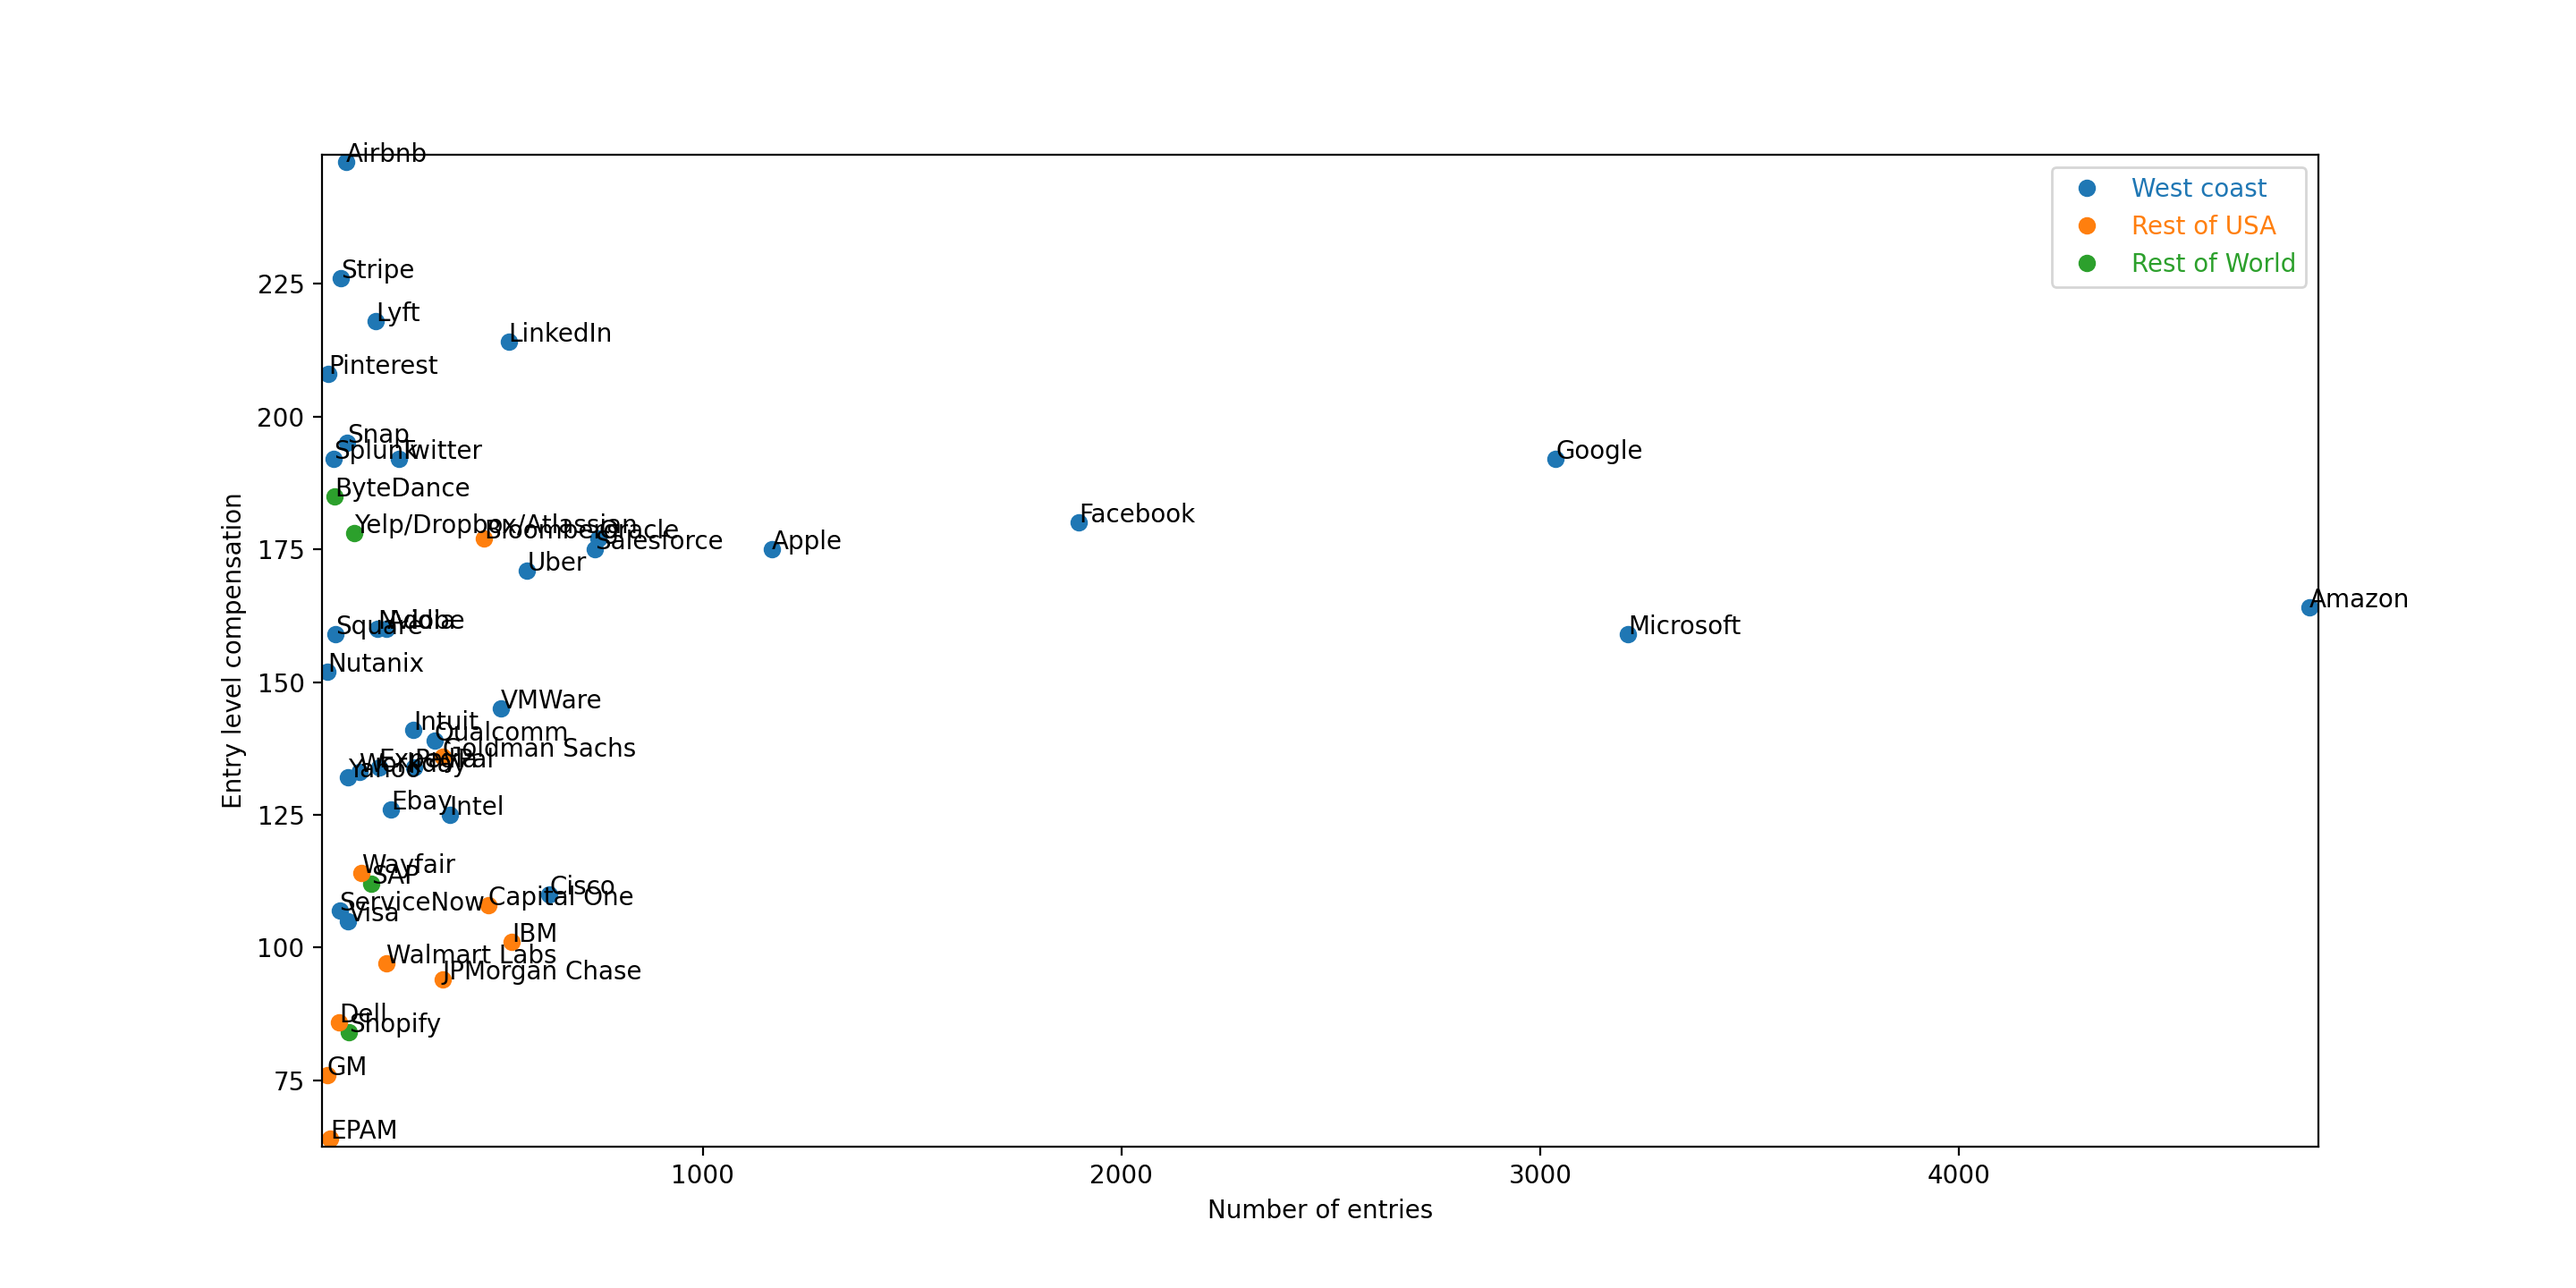
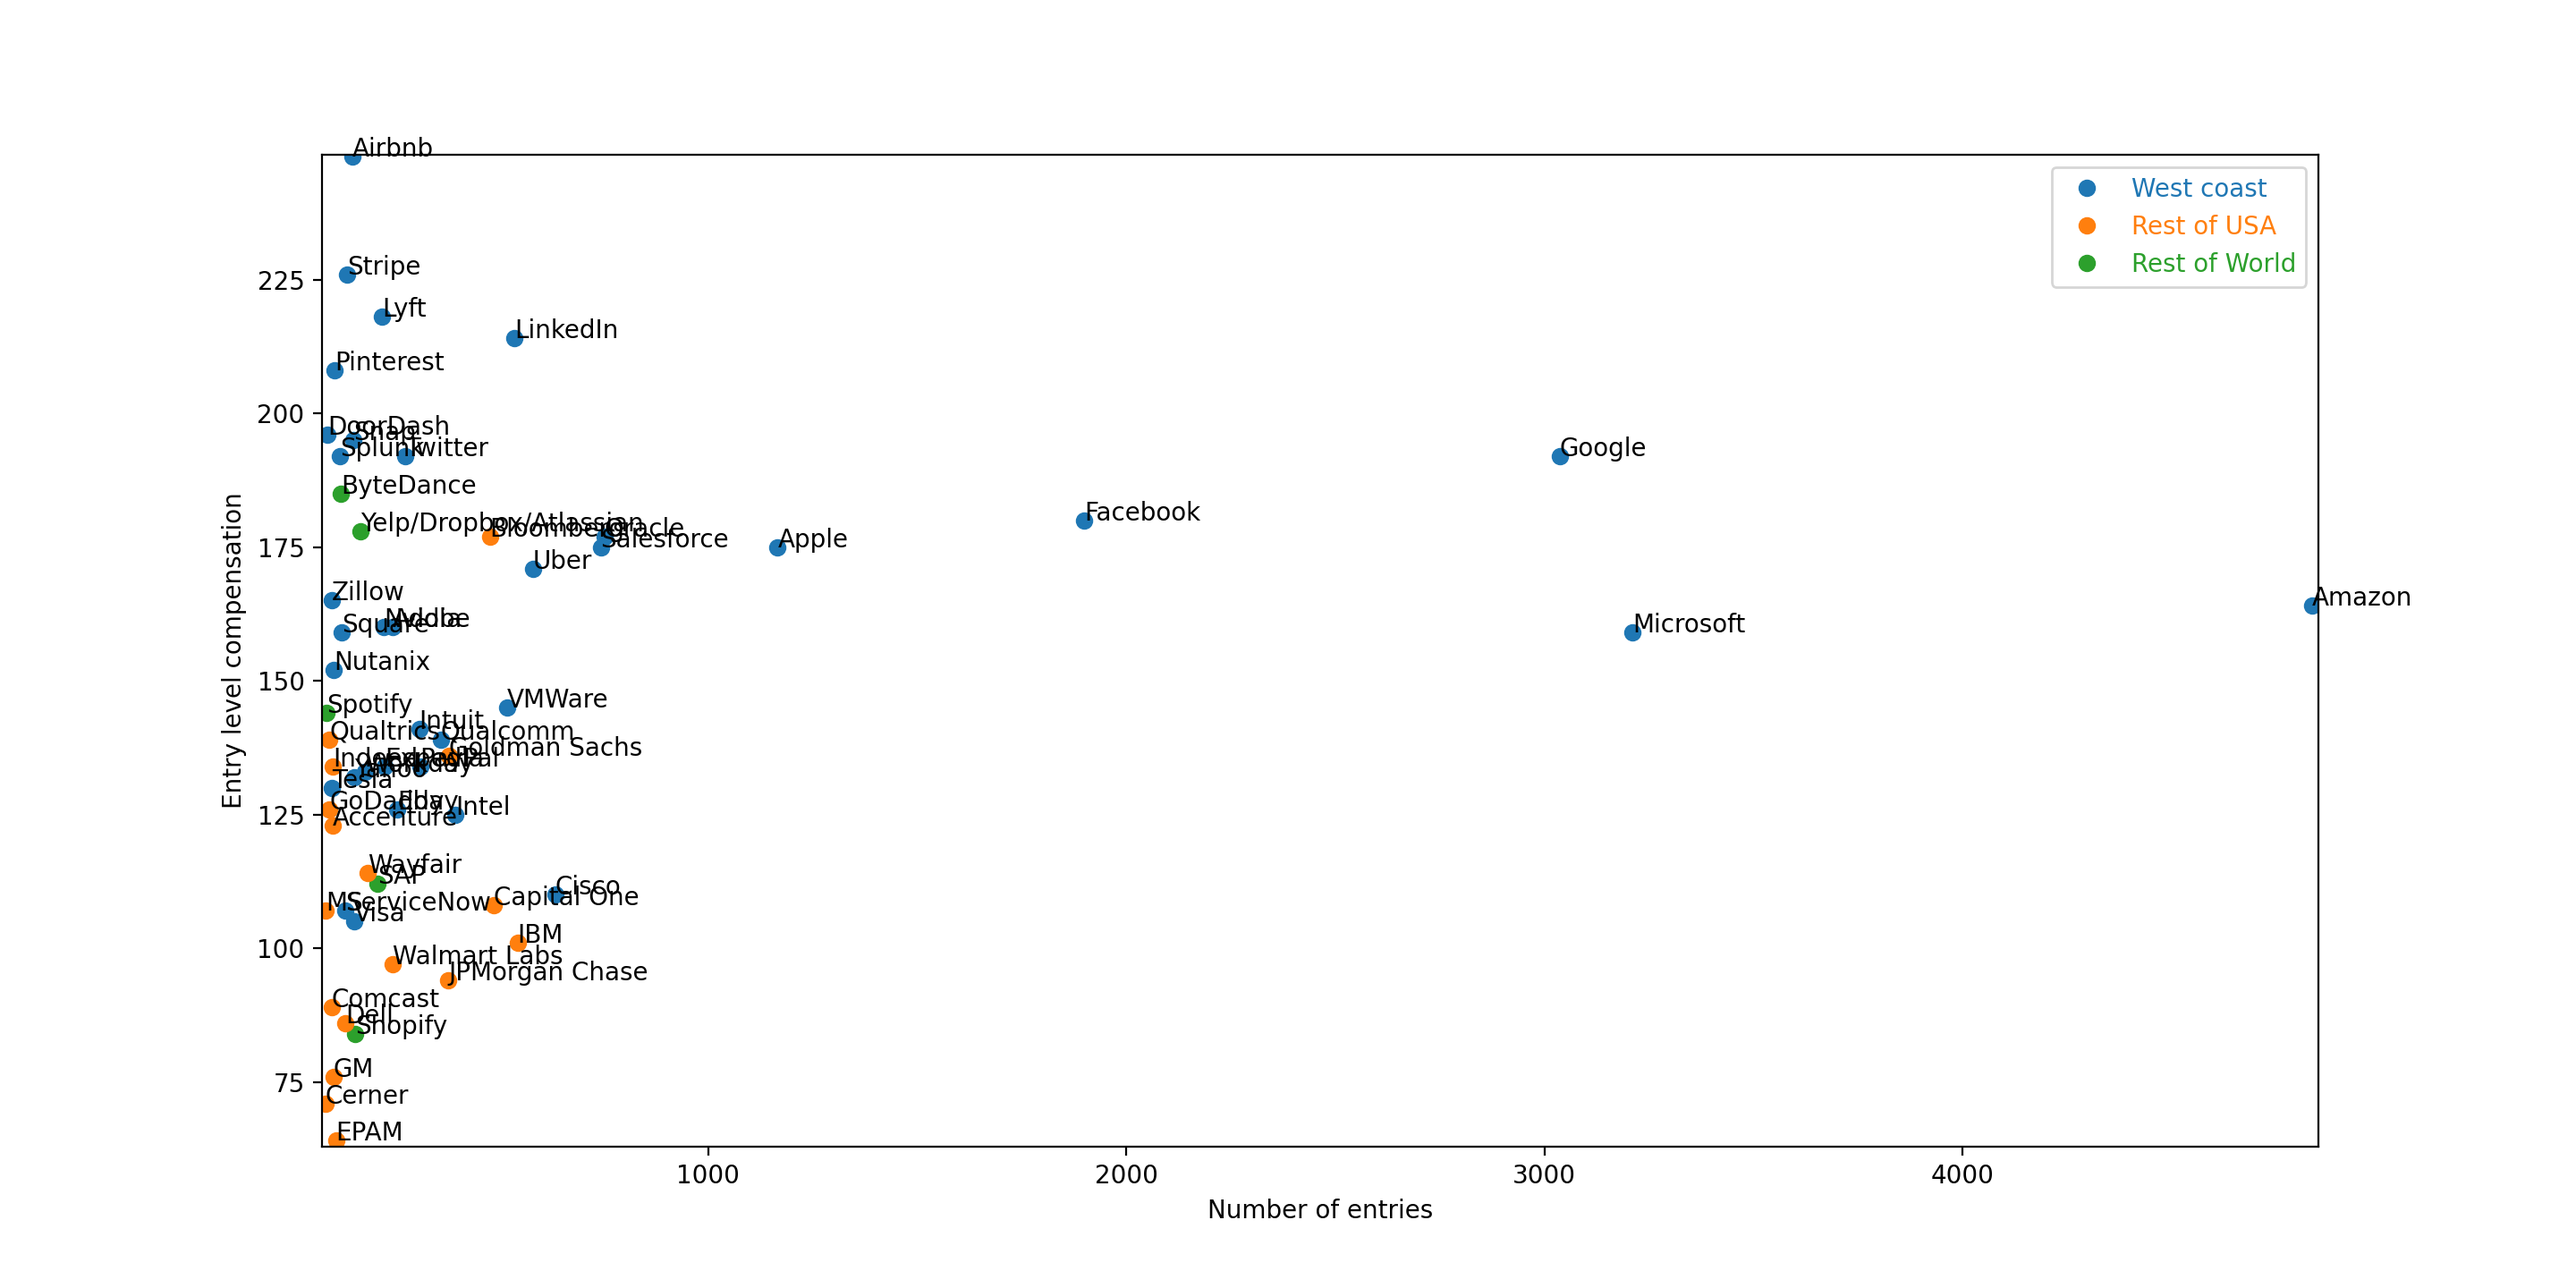
graphing more companies

diff --git a/tech-compensation/main.py b/tech-compensation/main.py
@@ -49,11 +49,22 @@ map = {
 'Pinterest': [107, 208],
 'Nutanix': [105, 152],
 'GM': [104, 76],
+'Indeed': [102, 134],
+'Accenture': [102, 123],
+'Tesla': [100, 130],
+'Comcast': [100, 89],
+'Zillow': [99, 165],
+'Qualtrics': [94, 139],
+'GoDaddy': [94, 126],
+'DoorDash': [90, 196],
+'Spotify': [87, 144],
+'MS': [86, 107],
+'Cerner': [85, 71],
 }
 for i in map:
-    if 1 in [c in i for c in {'SAP', 'Atlassian', 'Shopify', 'Yandex', 'ByteDance'}]:
+    if 1 in [c in i for c in {'SAP', 'Atlassian', 'Shopify', 'Yandex', 'ByteDance', 'Spotify'}]:
         plt.plot(map[i][0], map[i][1], 'oC2')
-    elif 1 in [c in i for c in {'IBM', 'Capital One', 'Bloomberg', 'Goldman Sachs', 'JPMorgan Chase', 'Walmart Labs', 'Wayfair', 'Dell', 'EPAM', "GM"}]:
+    elif 1 in [c in i for c in {'IBM', 'Capital One', 'Bloomberg', 'Goldman Sachs', 'JPMorgan Chase', 'Walmart Labs', 'Wayfair', 'Dell', 'EPAM', 'GM', 'Indeed', 'Accenture', 'Comcast', 'Qualtrics', 'GoDaddy', 'MS', 'Cerner'}]:
         plt.plot(map[i][0], map[i][1], 'oC1')
     else:
         plt.plot(map[i][0], map[i][1], 'oC0')
